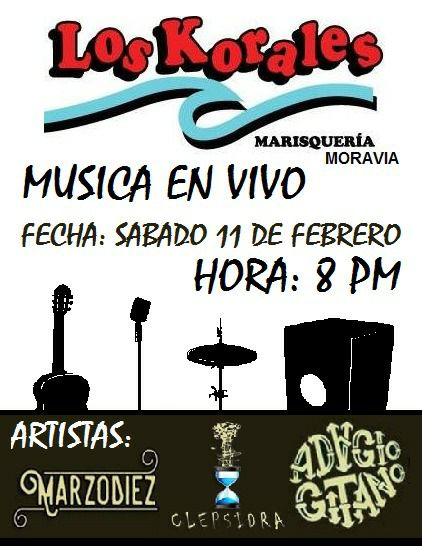
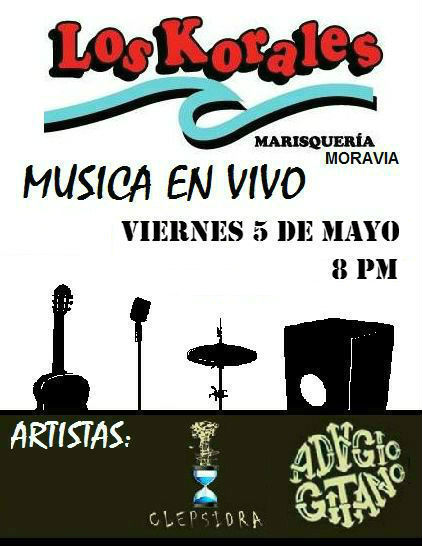
se modifica la imagen de los korales.jpg y se incrusta mapa y ubicacion del evento.

diff --git a/index.html b/index.html
@@ -122,17 +122,17 @@
         <div class="row">
             <div class="col col-xs-12 col-sm-6">
                 <div class="afiche">
-                    <img src="images/afiche/tintosblancos.png" alt="Tintos y blancos" class="info-evento img-responsive">
+                    <img src="images/afiche/korales.jpg" alt="Los Korales" class="info-evento img-responsive">
                 </div>
                 
                 
                 <div class="text-center">
-                    <p><a href="https://goo.gl/maps/DJzugZNnxg42"><strong>Ubicación</strong></a></p>    
+                    <p><a href="https://goo.gl/maps/k3spSBGCd1K2"><strong>Ubicación</strong></a></p>    
                 </div>
             </div>
             <div class="col col-sm-6 hidden-xs">
                 <div class="info-evento-map">
-                    <iframe src="https://www.google.com/maps/embed?pb=!1m18!1m12!1m3!1d3929.886930090984!2d-84.15209598610556!3d9.943364976737248!2m3!1f0!2f0!3f0!3m2!1i1024!2i768!4f13.1!3m3!1m2!1s0x8fa0fb86de82a17f%3A0x9698bf19e30f147!2sTintos+%26+Blancos!5e0!3m2!1ses-419!2s!4v1487212823096" frameborder="0" style="border:0" class="info-evento-map" allowfullscreen></iframe>
+                	<iframe src="https://www.google.com/maps/embed?pb=!1m18!1m12!1m3!1d3929.6555455201433!2d-84.06216058578212!3d9.96258969287679!2m3!1f0!2f0!3f0!3m2!1i1024!2i768!4f13.1!3m3!1m2!1s0x8fa0e4f56944e42d%3A0x90433bfe1c13c8e!2sLos+Korales!5e0!3m2!1ses-419!2s!4v1493698227492" frameborder="0" style="border:0" allowfullscreen></iframe>                    
                 </div>
             </div>
         </div>
